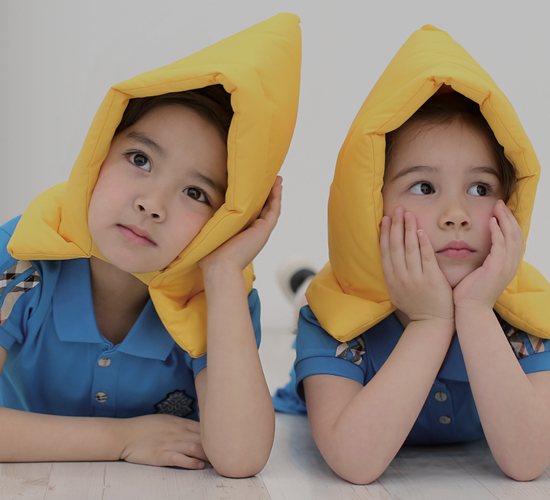
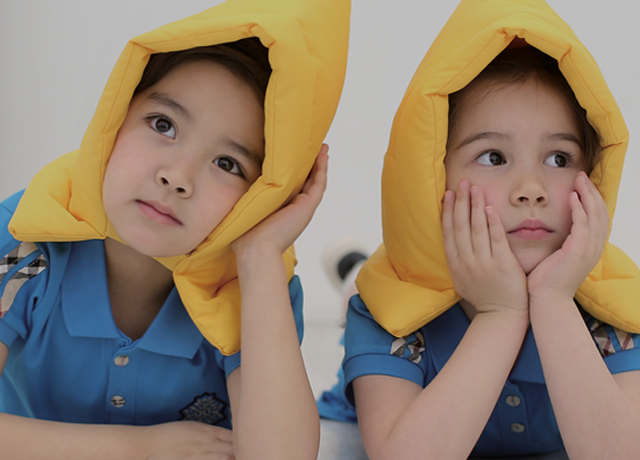
0108
single-banner max size 640px
brand-img max size 380px

diff --git a/index.html b/index.html
@@ -237,7 +237,9 @@
 
                 <div class="col-xs-6 col-md-4">
                     <div class="single-banner">
+                      <div class="banner-size">
                         <img src="img/main/banner-1.jpg" alt="">
+                      </div>
                         <div class="inner-text">
                             <a href="https://www.youtube.com/channel/UCxvMm1JUc0cfjiYdSULhuZw">
                                 <img src="img/main/icon-banner-1.png" alt="" class="shake">
@@ -247,7 +249,9 @@
                 </div>
                 <div class="col-xs-6 col-md-4">
                     <div class="single-banner">
+                      <div class="banner-size">
                         <img src="img/main/banner-2.jpg" alt="">
+                      </div>
                         <div class="inner-text">
                             <img src="img/main/icon-banner-2.png" alt="" class="shake">
                         </div>
@@ -255,7 +259,9 @@
                 </div>
                 <div class="col-xs-6 col-md-4">
                     <div class="single-banner">
+                      <div class="banner-size">
                         <img src="img/main/banner-3.jpg" alt="">
+                      </div>
                         <div class="inner-text">
                             <img src="img/main/icon-banner-3.png" alt="" class="shake">
                         </div>
@@ -265,7 +271,9 @@
 
                 <div class="col-xs-6 col-md-4">
                     <div class="single-banner">
+                      <div class="banner-size">
                         <img src="img/main/banner-4.jpg" alt="">
+                      </div>
                         <div class="inner-text">
                             <img src="img/main/icon-banner-4.png" alt="" class="shake">
                         </div>
@@ -273,7 +281,9 @@
                 </div>
                 <div class="col-xs-6 col-md-4">
                     <div class="single-banner">
+                      <div class="banner-size">
                         <img src="img/main/banner-5.jpg" alt="">
+                      </div>
                         <div class="inner-text">
                             <img src="img/main/icon-banner-5.png" alt="" class="shake">
                         </div>
@@ -281,7 +291,9 @@
                 </div>
                 <div class="col-xs-6 col-md-4">
                     <div class="single-banner">
+                      <div class="banner-size">
                         <img src="img/main/banner-6.jpg" alt="">
+                      </div>
                         <div class="inner-text">
                             <img src="img/main/icon-banner-6.png" alt="" class="shake">
                         </div>
@@ -377,28 +389,32 @@
     <!-- Latest Blog Section Begin -->
     <section class="latest-blog spad">
         <div class="container">
-          <div class="row">
-            <div class="col-md-6">
-              <img src="img/main/question.png" alt="">
-            </div>
-            <div class="col-md-6">
-              <div class="row">
-                <img src="img/main/partner_brand_text.png">
-              </div>
-              <div class="row">
-                  <div class="col-xs-6">
-                      <div class="single-latest-blog">
-                          <img src="img/main/partnership.png" alt=""/>
-                      </div>
-                  </div>
-                  <div class="col-xs-6">
-                      <div class="single-latest-blog">
-                        <img src="img/main/brand.png" alt=""/>
-                      </div>
-                  </div>
-              </div>
-            </div>
+          <div class="brand-bg">
+            <img src="img/main/question.png" alt="">
           </div>
+            <div class="col-sm-6" id="brand-right">
+              <div class="row">
+                <div class="brand-title">
+                  <img src="img/main/partner_brand_text.png">
+                </div>
+              </div>
+              <div class="row">
+                  <div class="col-xs-6">
+                      <div class="single-latest-blog">
+                        <div class="brand-img">
+                          <img src="img/main/partnership.png" alt=""/>
+                        </div>
+                      </div>
+                  </div>
+                  <div class="col-xs-6">
+                      <div class="single-latest-blog">
+                        <div class="brand-img">
+                          <img src="img/main/brand.png" alt=""/>
+                        </div>
+                      </div>
+                  </div>
+              </div>
+            </div>
         </div>
     </section>
     <!-- Latest Blog Section End -->
@@ -415,7 +431,9 @@
             <div class="row">
                 <div class="col-lg-4 col-md-4">
                     <div class="single-latest-blog">
+                      <div class="insta-img">
                         <img src="img/main/insta.png" alt="">
+                      </div>
                     </div>
                 </div>
                 <div class="col-lg-4 col-md-4">

diff --git a/css/style.css b/css/style.css
@@ -997,6 +997,10 @@ ol {
 	z-index: 1;
 }
 
+.single-banner .banner-size {
+	max-width: 640px;
+}
+
 .single-banner:hover::before {
 	-webkit-transform: scale(1);
 	-ms-transform: scale(1);
@@ -1413,13 +1417,16 @@ ol {
 -----------------------*/
 
 .latest-blog {
+	position: relative;
 	padding-top: 72px;
 	padding-bottom: 80px;
 }
 .latest-blog .container{
+	position: relative;
 	margin-left: 0;
-	padding: 0;
-	width: 90%;
+	padding: 0
+	width: 100%;
+	height: auto;
 }
 
 .latest-blog img {
@@ -1430,13 +1437,17 @@ ol {
 	margin-bottom: 55px;
 }
 
+
 .single-latest-blog {
-	margin-bottom: 25px;
 	max-width: 100%;
 }
 
-.single-latest-blog img {
-	min-width: 100%;
+.single-latest-blog .brand-img {
+	max-width: 380px;
+}
+
+.single-latest-blog .brand-title {
+	max-width: 790px;
 }
 
 .single-latest-blog .latest-text {
@@ -4097,6 +4108,11 @@ ol {
 	.logo-line {
 		display: none;
 	}
+	.latest-blog #brand-right {
+		position: absolute;
+		right: 0;
+		bottom: 0;
+	}
 }
 
 @media only screen and (max-width: 767px) {
@@ -4267,6 +4283,9 @@ ol {
 	}
 	.checkout-content input {
 		margin-top: 50px;
+	}
+	.brand-bg {
+		display: none;
 	}
 }
 
